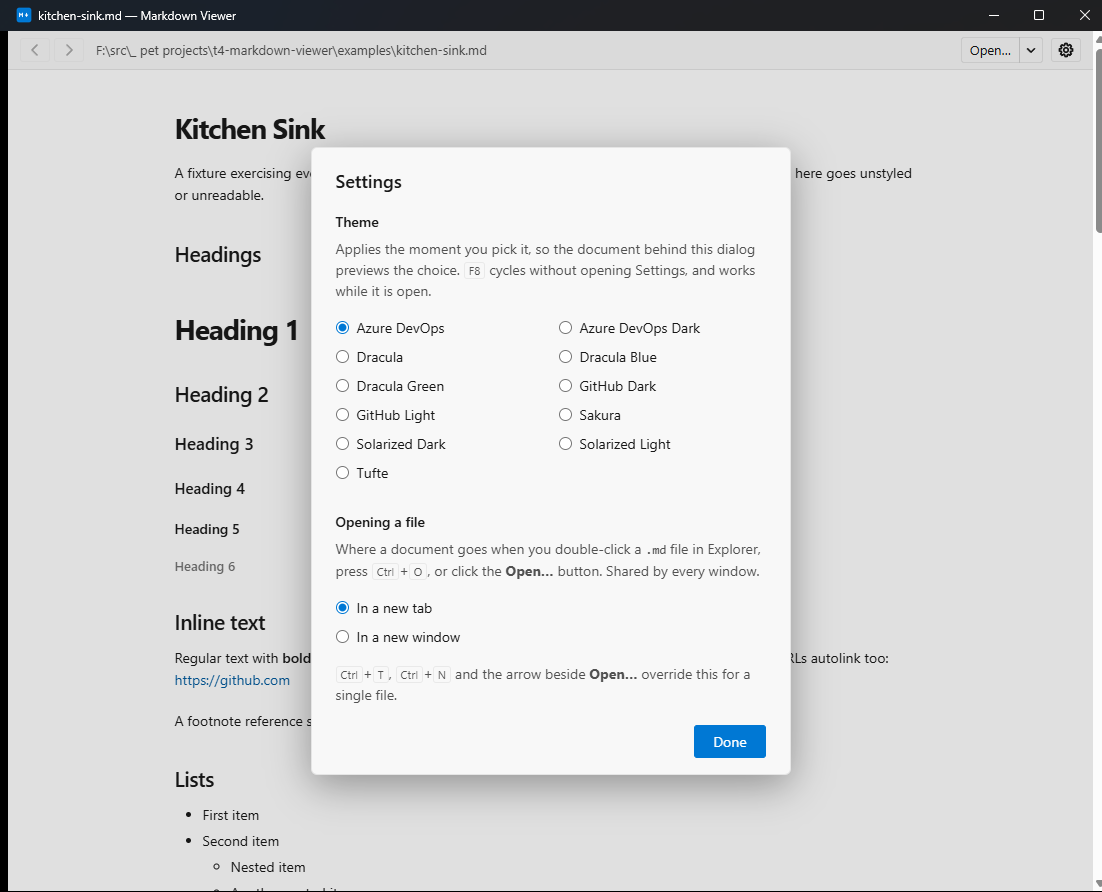
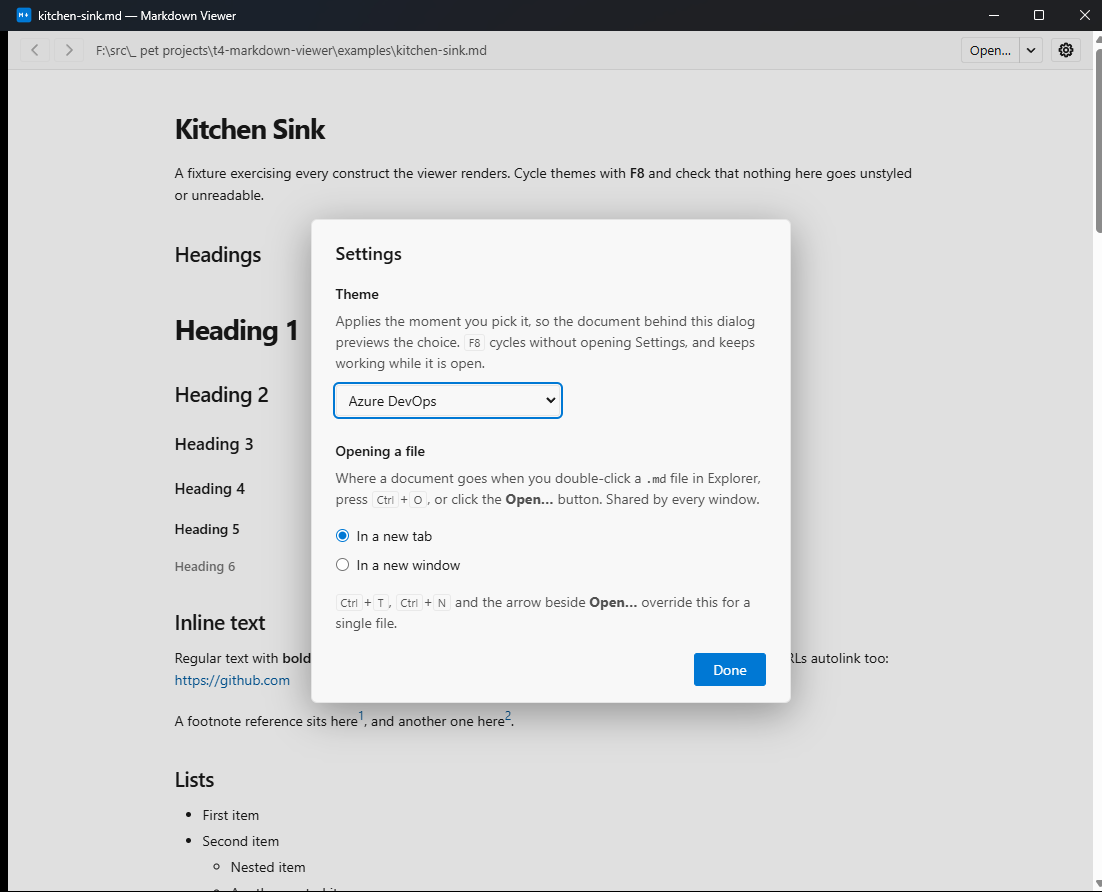
Put the theme picker back to a dropdown, inside Settings
The ask was to move the picker into Settings, not to change what it is;
turning it into radio buttons was mine to not make. Reverted to the
<select>, still in the Settings dialog, still applying on change so the
document behind previews the choice.

The twelve theme rules deleted with the radios are restored, rescoped
from `#bar select option` to plain `select option` — the picker no
longer lives in the top bar, so the old selector would match nothing and
every dark theme's popup would go back to near-white on near-white. The
authoring guide says the same, and tells anyone carrying the old
selector to drop the `#bar`.

Verified on a build: arrowing the select re-themes the document, the
dialog and the select itself, and writes config.json. The popup list
cannot be screenshotted — it is an OS-level widget drawn outside the
window surface, which is the whole reason those literal colours exist.

Changed region(s): [[0.2777, 0.1816, 0.7405, 0.7265], [0.2777, 0.7265, 0.7405, 0.9081]]

diff --git a/src/app.js b/src/app.js
@@ -12,7 +12,7 @@ const els = {
   forward: document.getElementById("fwd-btn"),
   docName: document.getElementById("doc-name"),
   tabs: document.getElementById("tabs"),
-  themeList: document.getElementById("theme-list"),
+  picker: document.getElementById("theme-picker"),
   openBtn: document.getElementById("open-btn"),
   openMore: document.getElementById("open-more"),
   openMenu: document.getElementById("open-menu"),
@@ -660,17 +660,11 @@ function onTabClick(event) {
 
 /* ---------------- themes ---------------- */
 
-function checkTheme(name) {
-  for (const radio of els.themeList.querySelectorAll("input")) {
-    radio.checked = radio.value === name;
-  }
-}
-
 async function applyTheme(name) {
   try {
     els.themeStyle.textContent = await invoke("read_theme", { name });
     state.theme = name;
-    checkTheme(name);
+    els.picker.value = name;
   } catch (err) {
     console.error("theme load failed", name, err);
   }
@@ -683,23 +677,15 @@ async function selectTheme(name) {
 
 async function loadThemeList() {
   state.themes = await invoke("list_themes");
-  els.themeList.replaceChildren(
+  els.picker.replaceChildren(
     ...state.themes.map((t) => {
-      const radio = document.createElement("input");
-      radio.type = "radio";
-      radio.name = "theme";
-      radio.value = t.name;
-      // Arrow keys move between radios in a group and fire `change` on each
-      // one, so walking the list previews every theme as you pass it.
-      radio.addEventListener("change", () => {
-        if (radio.checked) selectTheme(t.name);
-      });
-      const label = document.createElement("label");
-      label.append(radio, t.label);
-      return label;
+      const opt = document.createElement("option");
+      opt.value = t.name;
+      opt.textContent = t.label;
+      return opt;
     }),
   );
-  if (state.theme) checkTheme(state.theme);
+  if (state.theme) els.picker.value = state.theme;
 }
 
 function cycleTheme(step) {
@@ -870,6 +856,7 @@ async function main() {
     });
   }
 
+  els.picker.addEventListener("change", (e) => selectTheme(e.target.value));
   els.content.addEventListener("click", onLinkClick);
   els.back.addEventListener("click", () => go(-1));
   els.forward.addEventListener("click", () => go(1));

diff --git a/src/base.css b/src/base.css
@@ -285,15 +285,37 @@ body {
   accent-color: var(--ui-accent);
 }
 
-/* Two columns so eleven themes do not turn the dialog into a column of names.
-   Capped and scrollable, since a user themes folder has no upper bound. */
-#theme-list {
-  display: grid;
-  grid-template-columns: 1fr 1fr;
-  gap: 0 1rem;
-  max-height: 11rem;
-  overflow-y: auto;
-  scrollbar-width: thin;
+#settings-dialog select {
+  font: inherit;
+  color: inherit;
+  background: transparent;
+  border: 1px solid var(--ui-border);
+  border-radius: 3px;
+  padding: 0.25rem 0.5rem;
+  min-width: 14rem;
+  cursor: pointer;
+}
+
+#settings-dialog select:hover {
+  border-color: var(--ui-accent);
+}
+
+#settings-dialog select:focus-visible {
+  outline: 2px solid var(--ui-accent);
+  outline-offset: 1px;
+}
+
+/*
+ * Options inherit `color` from the select, so without an explicit rule a
+ * light-on-dark theme paints white text into the OS popup and the list becomes
+ * invisible. These are the pre-theme defaults; each theme restates them.
+ *
+ * Literal colors only — the popup is a separate OS-level widget where `var()`
+ * does not resolve. Keep these in sync with the :root defaults above.
+ */
+select option {
+  background-color: #f5f5f5;
+  color: #1f1f1f;
 }
 
 #settings-dialog kbd {

diff --git a/src/index.html b/src/index.html
@@ -72,12 +72,9 @@
           <legend>Theme</legend>
           <p class="hint">
             Applies the moment you pick it, so the document behind this dialog previews the choice.
-            <kbd>F8</kbd> cycles without opening Settings, and works while it is open.
+            <kbd>F8</kbd> cycles without opening Settings, and keeps working while it is open.
           </p>
-          <!-- Radios rather than a <select>: the popup list of a native select
-               is an OS-level widget that no theme can colour, which used to
-               force every theme file to restate two literal colours. -->
-          <div id="theme-list" role="radiogroup" aria-label="Theme"></div>
+          <select id="theme-picker" aria-label="Theme"></select>
         </fieldset>
 
         <fieldset>

diff --git a/src-tauri/themes/_template.css b/src-tauri/themes/_template.css
@@ -45,6 +45,22 @@ body {
   background: #ffffff;
 }
 
+/*
+ * The theme dropdown's popup is a separate OS-level widget drawn outside the
+ * page. Two consequences:
+ *
+ *   1. `var()` does not resolve there, so these must be LITERAL colors. Using
+ *      var(--ui-bg) silently falls back to base.css's light defaults.
+ *   2. `color-scheme` is ignored, so a dark theme must state both colors here
+ *      or the options inherit your pale text onto a light popup and vanish.
+ *
+ * Match these to --ui-bg and --ui-fg above.
+ */
+select option {
+  background-color: #f5f5f5;
+  color: #1f1f1f;
+}
+
 /* ---- document ---------------------------------------------------------- */
 /* Everything the renderer produces lives inside .markdown-body. */
 .markdown-body {

diff --git a/src-tauri/themes/azure-devops-dark.css b/src-tauri/themes/azure-devops-dark.css
@@ -29,6 +29,18 @@ body {
   background: #1f1f1f;
 }
 
+/*
+ * The <select> popup is drawn as its own OS-level widget, outside the page.
+ * `var()` references do not resolve there and `color-scheme` is ignored, so
+ * these two must be literal colors — with `var()` the list silently falls back
+ * to base.css's light defaults, and on a dark theme the options render as
+ * near-white text on a near-white background.
+ */
+select option {
+  background-color: #252526;
+  color: rgba(255, 255, 255, 0.9);
+}
+
 /* ---- document ---- */
 .markdown-body {
   font-family: "Segoe UI", -apple-system, BlinkMacSystemFont, Roboto, "Helvetica Neue", Helvetica,

diff --git a/src-tauri/themes/azure-devops.css b/src-tauri/themes/azure-devops.css
@@ -30,6 +30,18 @@ body {
   background: #ffffff;
 }
 
+/*
+ * The <select> popup is drawn as its own OS-level widget, outside the page.
+ * `var()` references do not resolve there and `color-scheme` is ignored, so
+ * these two must be literal colors — with `var()` the list silently falls back
+ * to base.css's light defaults, and on a dark theme the options render as
+ * near-white text on a near-white background.
+ */
+select option {
+  background-color: #f8f8f8;
+  color: rgba(0, 0, 0, 0.9);
+}
+
 /* ---- document ---- */
 .markdown-body {
   font-family: "Segoe UI", -apple-system, BlinkMacSystemFont, Roboto, "Helvetica Neue", Helvetica,

diff --git a/src-tauri/themes/dracula-blue.css b/src-tauri/themes/dracula-blue.css
@@ -30,6 +30,18 @@ body {
   background: #1e2a3a;
 }
 
+/*
+ * The <select> popup is drawn as its own OS-level widget, outside the page.
+ * `var()` references do not resolve there and `color-scheme` is ignored, so
+ * these two must be literal colors — with `var()` the list silently falls back
+ * to base.css's light defaults, and on a dark theme the options render as
+ * near-white text on a near-white background.
+ */
+select option {
+  background-color: #17202c;
+  color: #f2f6fa;
+}
+
 /* ---- document ---- */
 .markdown-body {
   font-family: -apple-system, BlinkMacSystemFont, "Segoe UI", "Noto Sans", Helvetica, Arial,

diff --git a/src-tauri/themes/dracula-green.css b/src-tauri/themes/dracula-green.css
@@ -30,6 +30,18 @@ body {
   background: #242e28;
 }
 
+/*
+ * The <select> popup is drawn as its own OS-level widget, outside the page.
+ * `var()` references do not resolve there and `color-scheme` is ignored, so
+ * these two must be literal colors — with `var()` the list silently falls back
+ * to base.css's light defaults, and on a dark theme the options render as
+ * near-white text on a near-white background.
+ */
+select option {
+  background-color: #1d2620;
+  color: #f2f8f4;
+}
+
 /* ---- document ---- */
 .markdown-body {
   font-family: -apple-system, BlinkMacSystemFont, "Segoe UI", "Noto Sans", Helvetica, Arial,

diff --git a/src-tauri/themes/dracula.css b/src-tauri/themes/dracula.css
@@ -27,6 +27,18 @@ body {
   background: #282a36;
 }
 
+/*
+ * The <select> popup is drawn as its own OS-level widget, outside the page.
+ * `var()` references do not resolve there and `color-scheme` is ignored, so
+ * these two must be literal colors — with `var()` the list silently falls back
+ * to base.css's light defaults, and on a dark theme the options render as
+ * near-white text on a near-white background.
+ */
+select option {
+  background-color: #21222c;
+  color: #f8f8f2;
+}
+
 /* ---- document ---- */
 .markdown-body {
   font-family: -apple-system, BlinkMacSystemFont, "Segoe UI", "Noto Sans", Helvetica, Arial,

diff --git a/src-tauri/themes/github-dark.css b/src-tauri/themes/github-dark.css
@@ -27,6 +27,18 @@ body {
   background: #0d1117;
 }
 
+/*
+ * The <select> popup is drawn as its own OS-level widget, outside the page.
+ * `var()` references do not resolve there and `color-scheme` is ignored, so
+ * these two must be literal colors — with `var()` the list silently falls back
+ * to base.css's light defaults, and on a dark theme the options render as
+ * near-white text on a near-white background.
+ */
+select option {
+  background-color: #151b23;
+  color: #e6edf3;
+}
+
 /* ---- document ---- */
 .markdown-body {
   font-family: -apple-system, BlinkMacSystemFont, "Segoe UI", "Noto Sans", Helvetica, Arial,

diff --git a/src-tauri/themes/github-light.css b/src-tauri/themes/github-light.css
@@ -27,6 +27,18 @@ body {
   background: #ffffff;
 }
 
+/*
+ * The <select> popup is drawn as its own OS-level widget, outside the page.
+ * `var()` references do not resolve there and `color-scheme` is ignored, so
+ * these two must be literal colors — with `var()` the list silently falls back
+ * to base.css's light defaults, and on a dark theme the options render as
+ * near-white text on a near-white background.
+ */
+select option {
+  background-color: #f6f8fa;
+  color: #1f2328;
+}
+
 /* ---- document ---- */
 .markdown-body {
   font-family: -apple-system, BlinkMacSystemFont, "Segoe UI", "Noto Sans", Helvetica, Arial,

diff --git a/src-tauri/themes/sakura.css b/src-tauri/themes/sakura.css
@@ -27,6 +27,18 @@ body {
   background: #f9f9f9;
 }
 
+/*
+ * The <select> popup is drawn as its own OS-level widget, outside the page.
+ * `var()` references do not resolve there and `color-scheme` is ignored, so
+ * these two must be literal colors — with `var()` the list silently falls back
+ * to base.css's light defaults, and on a dark theme the options render as
+ * near-white text on a near-white background.
+ */
+select option {
+  background-color: #f1f1f1;
+  color: #4a4a4a;
+}
+
 /* ---- document ---- */
 .markdown-body {
   font-family: -apple-system, BlinkMacSystemFont, "Segoe UI", "Noto Sans", Helvetica, Arial,
